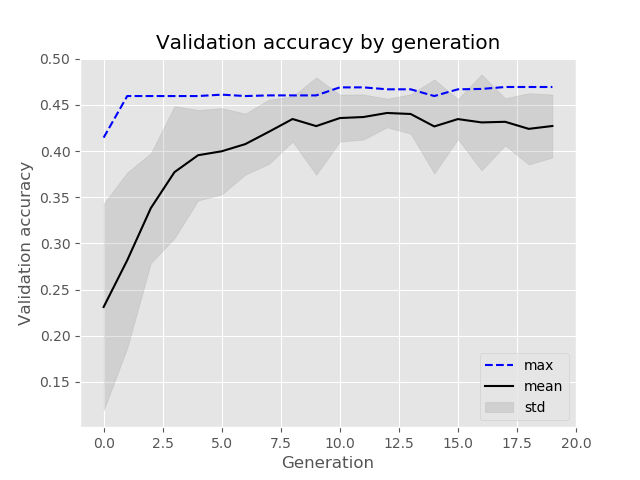
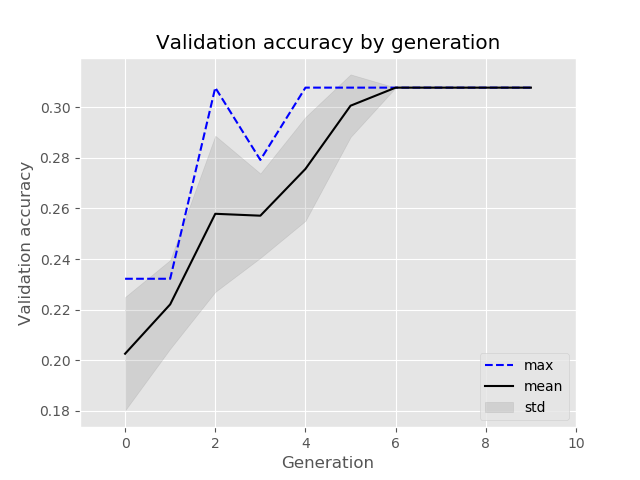
added more positions to tqdm_callback, changed nn example a bit

diff --git a/naturalselection/nn.py b/naturalselection/nn.py
@@ -22,9 +22,7 @@ class FNN(ns.Genus):
         (iterable) batch_size: batch sizes
         (iterable) initializer: keras initializers
         '''
-    def __init__(self,
-        max_nm_hidden_layers = 5,
-        uniform_layers = False,
+    def __init__(self, max_nm_hidden_layers = 5, uniform_layers = False,
         input_dropout = np.arange(0, 0.6, 0.1),
         hidden_dropout = np.arange(0, 0.6, 0.1),
         neurons = np.array([2 ** n for n in range(4, 11)]),
@@ -74,7 +72,7 @@ class FNNs(ns.Population):
         score = 'accuracy', 
         output_activation = 'sigmoid',
         max_epochs = 1000000, 
-        patience = 10, 
+        patience = 3, 
         min_change = 1e-4,
         max_training_time = None, 
         max_nm_hidden_layers = 5,
@@ -156,7 +154,6 @@ class FNNs(ns.Population):
             patience            = self.patience,
             min_change          = self.min_change,
             max_training_time   = self.max_training_time,
-            verbose             = 0,
             file_name           = None,
             )
 
@@ -192,25 +189,29 @@ class FNNs(ns.Population):
             patience            = patience,
             min_change          = min_change,
             max_training_time   = max_training_time,
-            verbose             = 1,
             file_name           = file_name
             )
+        print("")
+        print("")
         return fitness
 
-    def train_fnn(self, fnn, max_epochs = 1000000, patience = 10,
-        min_change = 1e-4, max_training_time = None, verbose = False,
-        file_name = None, worker_idx = None):
+    def train_fnn(self, fnn, max_epochs = 1000000, patience = 3,
+        min_change = 1e-4, max_training_time = None, file_name = None, 
+        worker_idx = None):
         ''' Train a feedforward neural network and output the score.
         
         INPUT
             (FNN) fnn: a feedforward neural network genus
-            (int) max_epochs: maximum number of epochs to train for
-            (int) patience: number of epochs with no progress above min_change
-            (float) min_change: everything below this number won't count as a
-                    change in the score
-            (int) max_training_time: maximum number of seconds to train for,
-                  also training the final epoch after the time has run out
-            (int) verbose: verbosity mode
+            (int) max_epochs = 1000000: maximum number of epochs to train for
+            (int) patience = 3: number of epochs allowed with no progress
+                  above min_change
+            (float) min_change = 1e-4: everything below this number will
+                    not count as a change in the score
+            (int) max_training_time = None: maximum number of seconds to
+                  train for, also training the final epoch after the time
+                  has run out
+            (int) worker_idx = None: what worker is currently training this
+                  network, with enumeration starting from 1
 
         OUTPUT
             (float) the score of the neural network
@@ -297,13 +298,13 @@ class FNNs(ns.Population):
             if worker_idx:
                 tqdm_callback = TQDMCallback(
                     show_outer = False, 
-                    position = worker_idx + 1,
+                    inner_position = (worker_idx % self.workers) + 2,
                     leave_inner = False
                     )
             else:
                 tqdm_callback = TQDMCallback(
                     show_outer = False, 
-                    position = 2
+                    inner_position = 0
                     )
             callbacks.append(tqdm_callback)
 
@@ -345,9 +346,6 @@ class FNNs(ns.Population):
         
         # Clear tensorflow session to avoid memory leak
         K.clear_session()
-        
-        if verbose:
-            print("")
         
         return fitness
 

diff --git a/naturalselection/callbacks.py b/naturalselection/callbacks.py
@@ -19,7 +19,8 @@ class TQDMCallback(Callback):
         show_inner = True,
         show_outer = True,
         output_file = None,
-        position = None,
+        outer_position = None,
+        inner_position = None,
         initial = 0):
 
         self.outer_description          = outer_description
@@ -38,16 +39,17 @@ class TQDMCallback(Callback):
         self.running_logs               = None
         self.inner_count                = None
         self.initial                    = initial
-        self.position                   = position
+        self.outer_position             = outer_position
+        self.inner_position             = inner_position
 
-    def build_tqdm(self, desc, total, leave, initial = 0):
+    def build_tqdm(self, desc, total, leave, position = None, initial = 0):
         """
         Extension point. Override to provide custom options to tqdm
         initializer.
         """
         return tqdm(desc = desc, total = total, leave = leave,
             file = self.output_file, initial = initial,
-            position = self.position)
+            position = position)
 
     def build_tqdm_outer(self, desc, total):
         """
@@ -55,7 +57,8 @@ class TQDMCallback(Callback):
         progress bars (Epoch loop)
         """
         return self.build_tqdm(desc = desc, total = total,
-            leave = self.leave_outer, initial = self.initial)
+            leave = self.leave_outer, initial = self.initial,
+            position = self.outer_position)
 
     def build_tqdm_inner(self, desc, total):
         """
@@ -63,7 +66,7 @@ class TQDMCallback(Callback):
         progress bars (Batch loop)
         """
         return self.build_tqdm(desc = desc, total = total,
-            leave = self.leave_inner)
+            leave = self.leave_inner, position = self.inner_position)
 
     def on_epoch_begin(self, epoch, logs = {}):
         self.epoch = epoch

diff --git a/nn_example.py b/nn_example.py
@@ -30,25 +30,56 @@ def cifar10_train_val_sets():
     Y_val = to_categorical(Y_val)
     return (X_train, Y_train, X_val, Y_val)
 
+
+print("\n~~~ Now evolving MNIST ~~~")
+
 fnns = ns.FNNs(
-    size = 30,
-    train_val_sets = cifar10_train_val_sets(),
+    size = 50,
+    train_val_sets = mnist_train_val_sets(),
     loss_fn = 'categorical_crossentropy',
     score = 'accuracy',
     output_activation = 'softmax',
-    max_training_time = 180,
-    max_epochs = 2,
+    max_training_time = 200,
+    max_epochs = 3,
     )
 
-history = fnns.evolve(generations = 20)
+history = fnns.evolve(generations = 10)
 print("Best overall genome:", history.fittest)
 
 history.plot(
     title = "Validation accuracy by generation",
     ylabel = "Validation accuracy",
     show_plot = False,
-    file_name = "nn_plot.png"
+    file_name = "mnist_plot.png"
     )
 
 best_score = fnns.train_best()
 print("Best score:", best_score)
+
+
+#print("\n~~~ Now evolving CIFAR-10 ~~~")
+#
+#fnns = ns.FNNs(
+#    size = 50,
+#    train_val_sets = cifar10_train_val_sets(),
+#    loss_fn = 'categorical_crossentropy',
+#    score = 'accuracy',
+#    output_activation = 'softmax',
+#    max_training_time = 300,
+#    max_epochs = 3,
+#    )
+#
+#history = fnns.evolve(generations = 10)
+#print("Best overall genome:", history.fittest)
+#
+#history.plot(
+#    title = "Validation accuracy by generation",
+#    ylabel = "Validation accuracy",
+#    show_plot = False,
+#    file_name = "cifar10_plot.png"
+#    )
+#
+#best_score = fnns.train_best()
+#print("Best score:", best_score)
+
+
